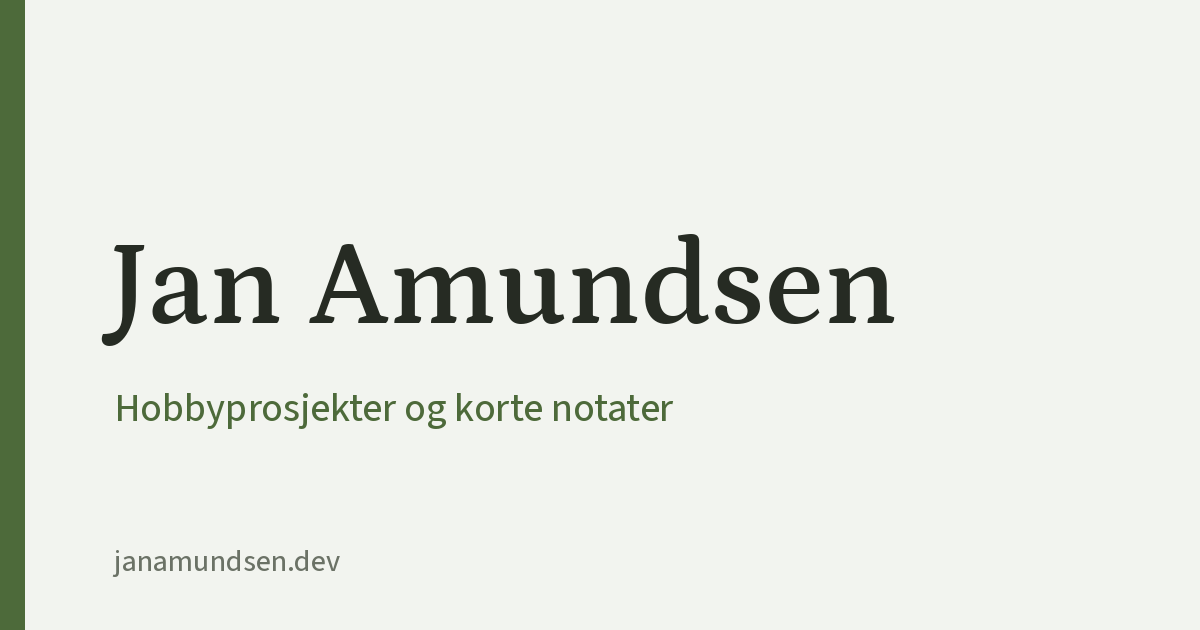
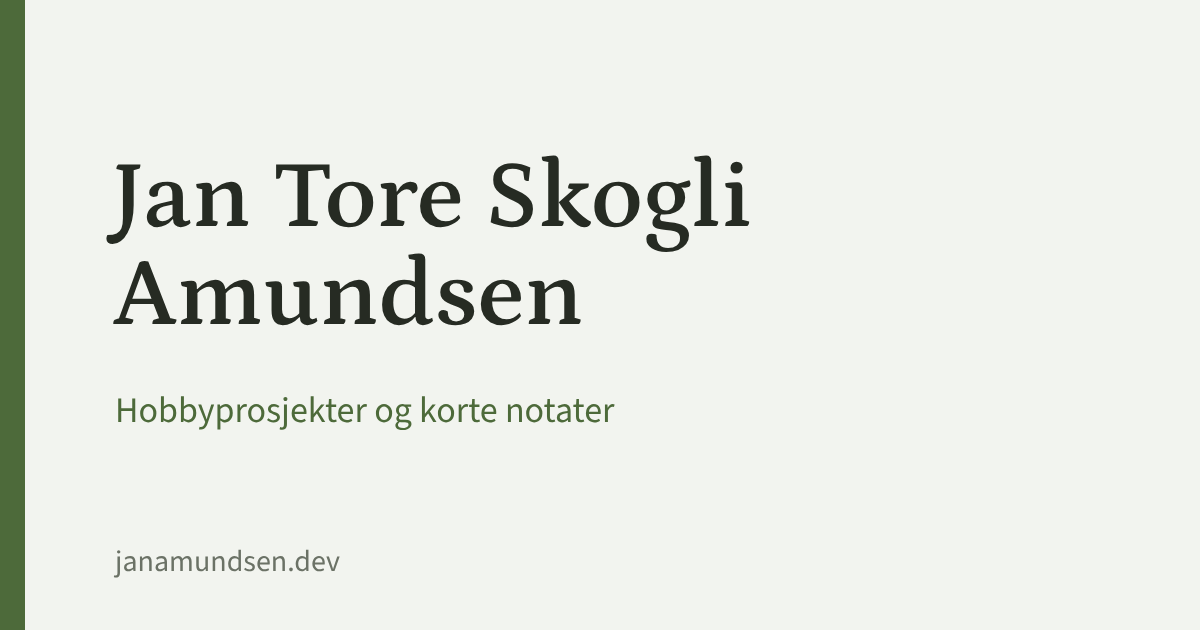
Bruk fullt navn som hovednavn og legg til Person-strukturdata (#7)
* Vis fullt navn og legg til Person-strukturdata for søk

Forsiden får fullt navn i tittel og beskrivelse, sidekolonnen viser
fullt navn under kortnavnet, og forsiden har JSON-LD med alternative
navn og sameAs-lenker til GitHub og LinkedIn.

Claude-Session: https://claude.ai/code/session_016UfdrnWJ4xgUVBmrB26Wes

* Fjern synlig fullt navn og parentes i tittelen

Fullt navn ligger nå bare i søkebeskrivelsen, meta author og
strukturdataene, så siden ser ut som før.

Claude-Session: https://claude.ai/code/session_016UfdrnWJ4xgUVBmrB26Wes

* Bruk fullt navn som hovednavn på siden

«Jan Tore Skogli Amundsen» erstatter «Jan Amundsen» i sidekolonnen,
titlene og delingsbildet. Kortnavnet ligger igjen som alternateName i
strukturdataene.

Claude-Session: https://claude.ai/code/session_016UfdrnWJ4xgUVBmrB26Wes

---------

Changed region(s): [[0.0617, 0.2413, 0.74, 0.5429], [0.0925, 0.6333, 0.555, 0.6937], [0.0925, 0.8746, 0.2775, 0.9048]]

diff --git a/src/site.ts b/src/site.ts
@@ -1,7 +1,8 @@
 // Personlige opplysninger som vises i sidekolonnen og i <head>.
 // Felt som står tomme blir ikke vist på siden.
 export const site = {
-  name: 'Jan Amundsen',
+  name: 'Jan Tore Skogli Amundsen',
+  url: 'https://janamundsen.dev',
   intro: 'Hobbyprosjekter og korte notater om det jeg lærer underveis.',
   email: 'jan.t.amundsen@gmail.com',
   github: 'https://github.com/jantamundsen',
